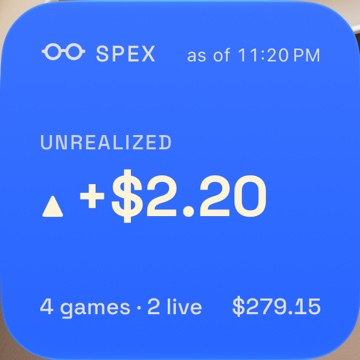
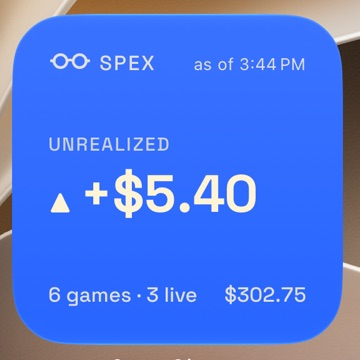
iOS page: Lock Screen Live Activity and medium widget back, retaken with demo data; small widget refreshed

diff --git a/ios/index.html b/ios/index.html
@@ -122,8 +122,9 @@
 <section>
   <div class="wrap split">
     <div class="stack">
+      <img class="strip" src="/assets/ios/ios-lock-activity.jpg" width="660" height="350" alt="A followed game on the iPhone Lock Screen: Redwood Owls vs Sandport Gulls, 5 to 2, live in the bottom of the 7th, your side at 71 percent and up $3.90 (demo data)" loading="lazy">
       <img class="strip" src="/assets/ios/ios-island.jpg" width="660" height="115" alt="The same game in the Dynamic Island: 5–2 on the left, 71 percent on the right" loading="lazy">
-      <p class="caption">A followed game in the Dynamic Island.</p>
+      <p class="caption">On the Lock Screen and in the Dynamic Island.</p>
     </div>
     <div>
       <div class="eyebrow">Follow on Lock Screen</div>
@@ -144,9 +145,10 @@
     </div>
     <div>
       <div class="widgets">
-        <img class="ws" src="/assets/ios/widget-small.jpg" width="360" height="360" alt="Small Spex Glance widget: unrealized P&amp;L of plus $2.20, 4 games, 2 live" loading="lazy">
+        <img class="wm" src="/assets/ios/widget-medium.jpg" width="760" height="354" alt="Medium Spex Glance widget: two live games with your side's chance and each game's P&amp;L, then cash, positions and unrealized P&amp;L (demo data)" loading="lazy">
+        <img class="ws" src="/assets/ios/widget-small.jpg" width="360" height="360" alt="Small Spex Glance widget: unrealized P&amp;L of plus $5.40, 6 games, 3 live (demo data)" loading="lazy">
       </div>
-      <p class="caption">The small home-screen widget.</p>
+      <p class="caption">The medium and small home-screen widgets.</p>
     </div>
   </div>
 </section>
